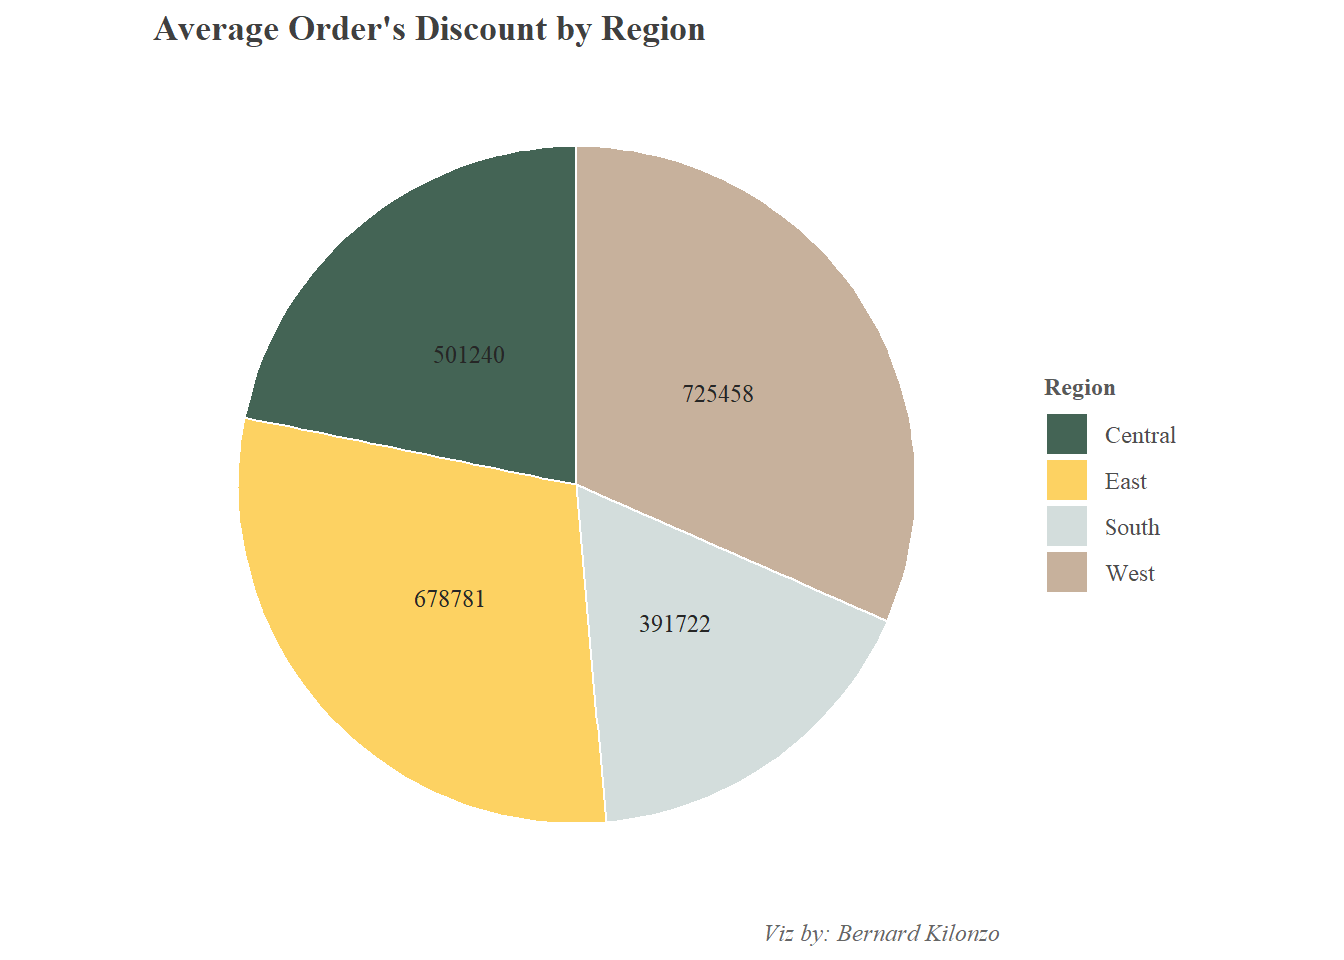
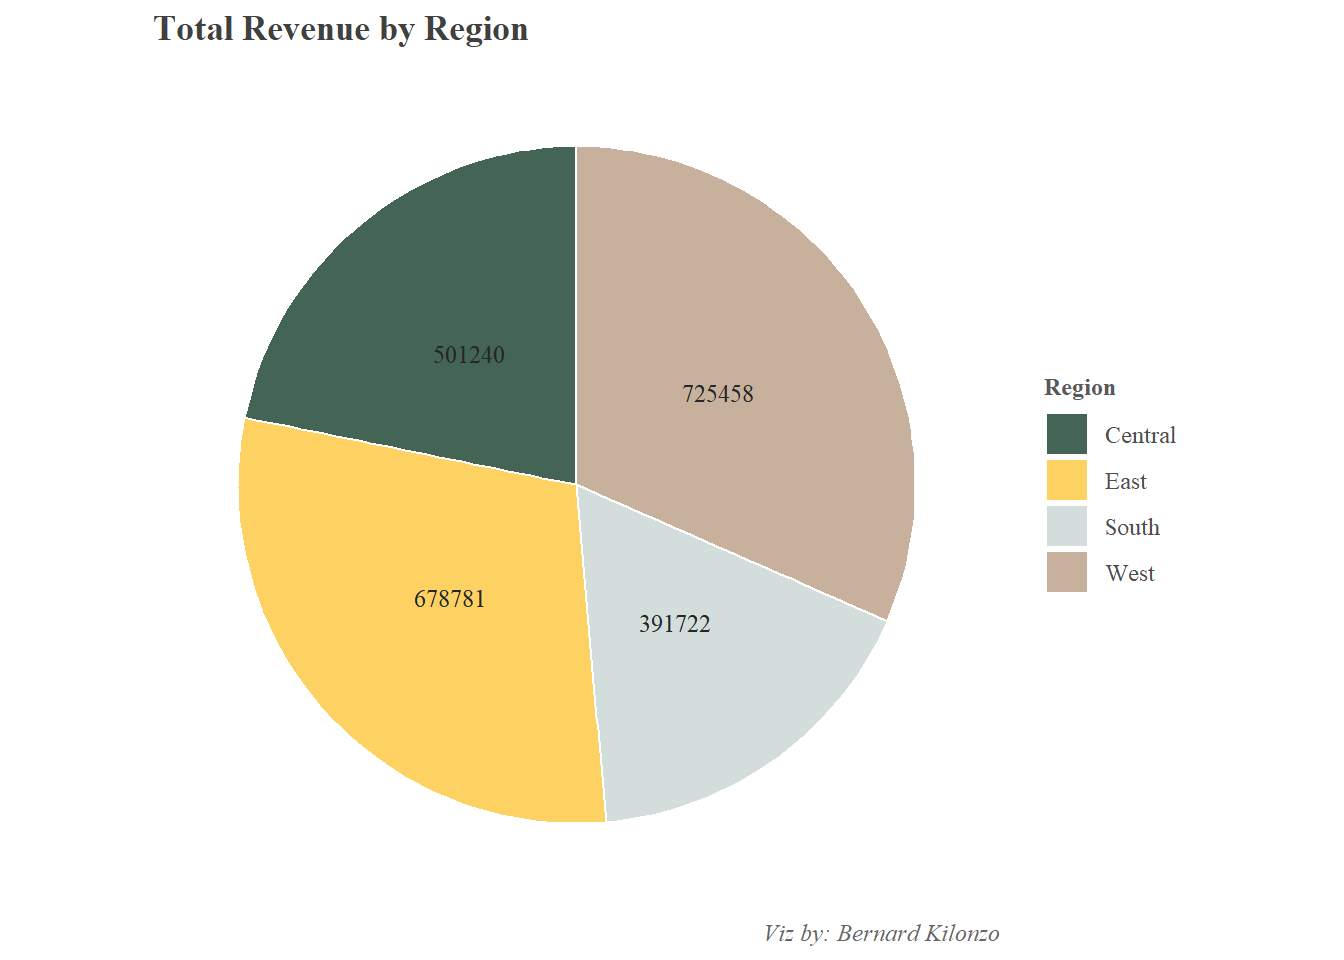
Correcting charts title.

Changed region(s): [[0.125, 0.0, 0.5312, 0.0625]]

diff --git a/Report Customization/Report_Dashboard_Customization.html b/Report Customization/Report_Dashboard_Customization.html
@@ -516,7 +516,7 @@ background: #023743;
 <span id="cb7-8"><a href="#cb7-8" aria-hidden="true" tabindex="-1"></a>  <span class="fu">geom_text</span>(<span class="fu">aes</span>(<span class="at">label =</span> revenue),<span class="at">family =</span><span class="st">"serif"</span>,<span class="at">size =</span><span class="fl">3.3</span>,<span class="at">color =</span> <span class="st">"gray15"</span>,<span class="at">position =</span> <span class="fu">position_stack</span>(<span class="at">vjust =</span> <span class="fl">0.5</span>))<span class="sc">+</span></span>
 <span id="cb7-9"><a href="#cb7-9" aria-hidden="true" tabindex="-1"></a>  <span class="fu">coord_polar</span>(<span class="at">theta =</span> <span class="st">"y"</span>)<span class="sc">+</span></span>
 <span id="cb7-10"><a href="#cb7-10" aria-hidden="true" tabindex="-1"></a>  <span class="fu">scale_fill_paletteer_d</span>(<span class="st">"wesanderson::Chevalier1"</span>)<span class="sc">+</span></span>
-<span id="cb7-11"><a href="#cb7-11" aria-hidden="true" tabindex="-1"></a>  <span class="fu">labs</span>(<span class="at">title =</span> <span class="st">"Average Order's Discount by Region"</span>,</span>
+<span id="cb7-11"><a href="#cb7-11" aria-hidden="true" tabindex="-1"></a>  <span class="fu">labs</span>(<span class="at">title =</span> <span class="st">"Total Revenue by Region"</span>,</span>
 <span id="cb7-12"><a href="#cb7-12" aria-hidden="true" tabindex="-1"></a>       <span class="at">caption =</span> <span class="st">"Viz by: Bernard Kilonzo"</span>)<span class="sc">+</span></span>
 <span id="cb7-13"><a href="#cb7-13" aria-hidden="true" tabindex="-1"></a>  <span class="fu">theme</span>(<span class="at">panel.background =</span> <span class="fu">element_blank</span>(),</span>
 <span id="cb7-14"><a href="#cb7-14" aria-hidden="true" tabindex="-1"></a>        <span class="at">axis.title =</span> <span class="fu">element_blank</span>(),</span>
